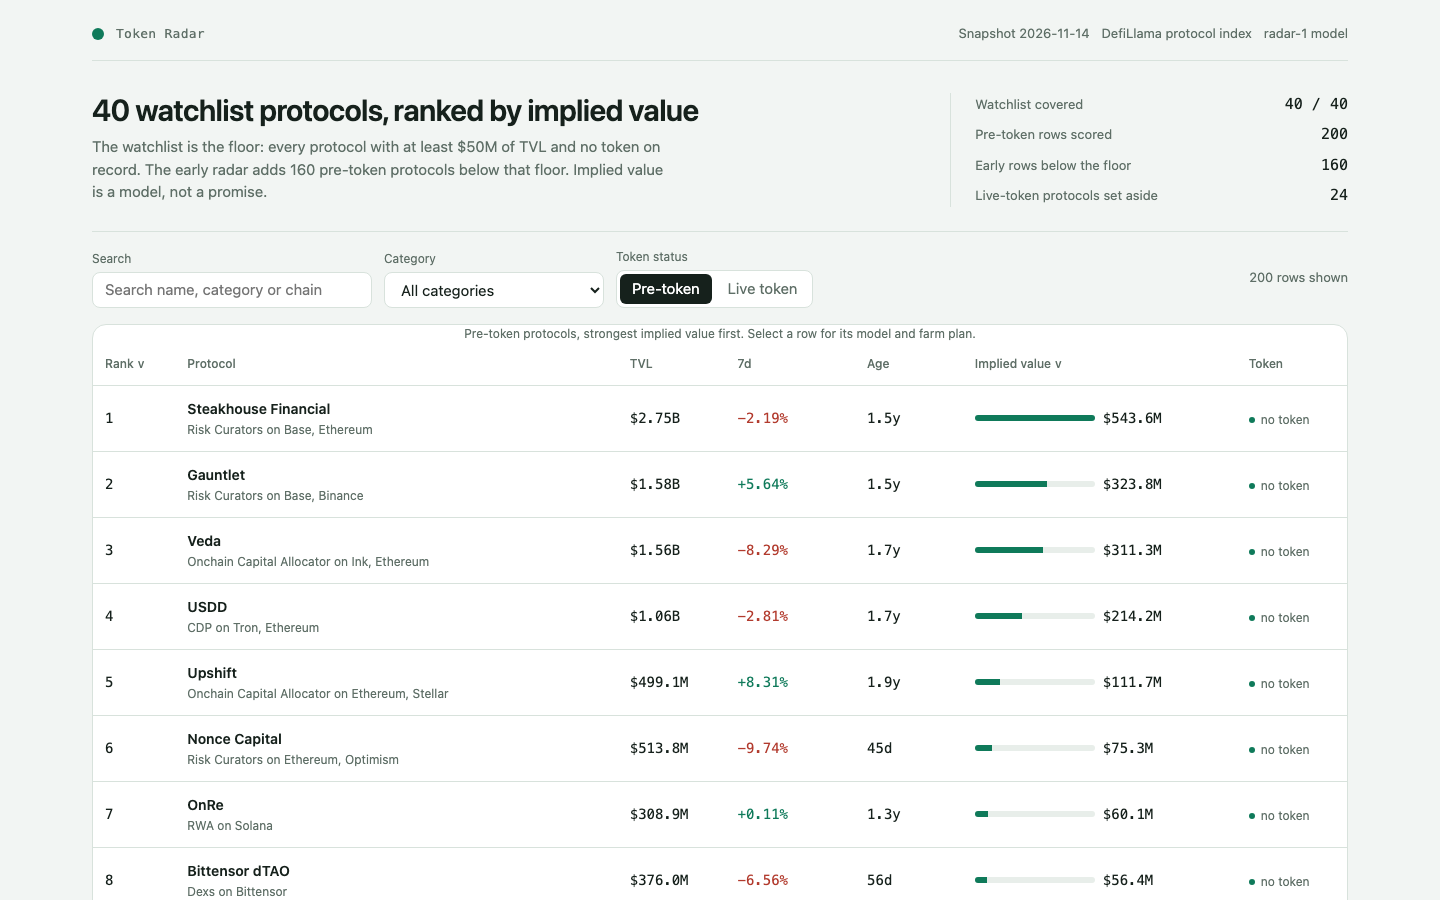
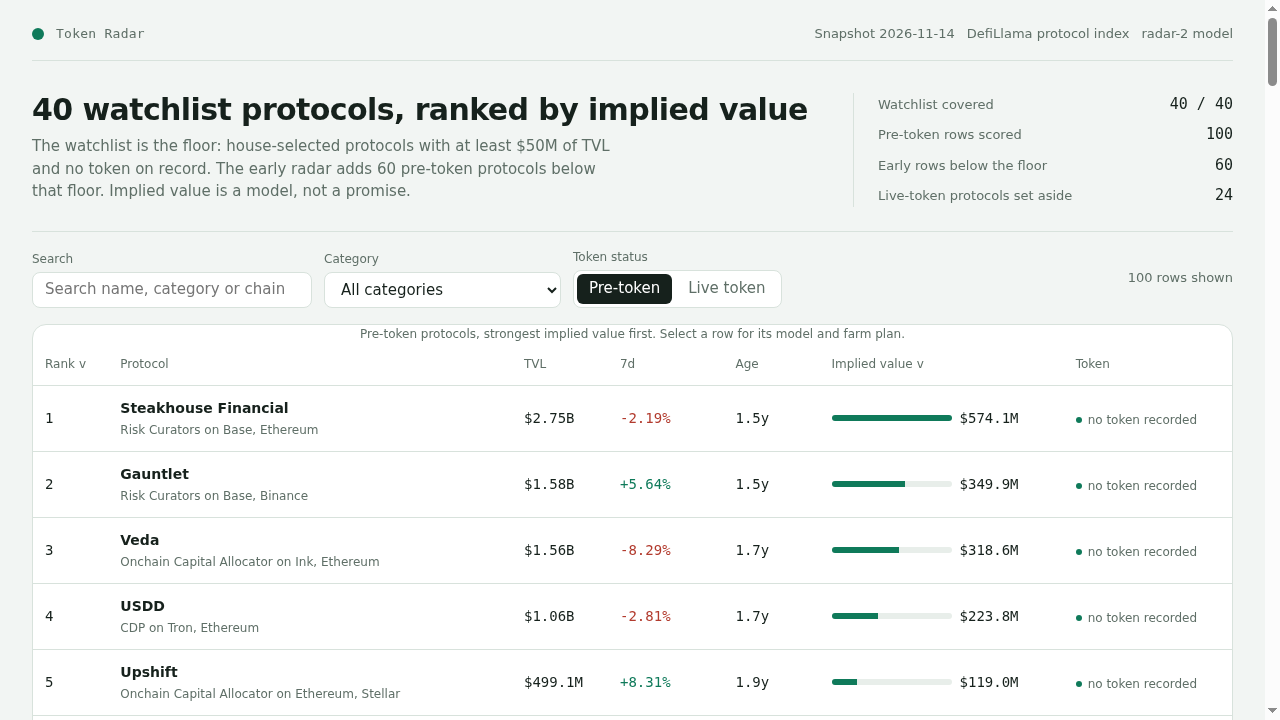
Improve launch radar signals and farm plans

diff --git a/dashboard/app.js b/dashboard/app.js
@@ -57,8 +57,7 @@
     return node;
   }
 
-  // The farm plan is the same derivation main.ts writes to board.json: category, chains, TVL and age
-  // decide the action, the capital, the hold and every cost and time. No name is special-cased.
+  // Legacy helper functions are unused: detail views use farm_steps from board.json.
   function chainOf(p) { return p.chains && p.chains.length > 0 ? p.chains[0] : 'its main chain'; }
   function capitalFor(p) {
     if (p.tvl_usd >= 5e9) return 250;
@@ -128,7 +127,7 @@
   function rows() {
     var q = state.q.trim().toLowerCase();
     return DATA.rows.filter(function (r) {
-      if (state.category !== 'all' && r.category !== state.category) return false;
+      if (state.category !== 'all' && (r.category || 'Other') !== state.category) return false;
       if (!q) return true;
       var hay = [r.name, r.slug, r.category, (r.chains || []).join(' ')].join(' ').toLowerCase();
       return hay.indexOf(q) >= 0;
@@ -164,7 +163,7 @@
     return el('section', { class: 'lede' },
       el('div', null,
         el('h1', { text: DATA.watchlist_size + ' watchlist protocols, ranked by implied value' }),
-        el('p', { text: 'The watchlist is the floor: every protocol with at least $' + Math.round(DATA.floor_usd / 1e6) + 'M of TVL and no token on record. The early radar adds ' + DATA.early_size + ' pre-token protocols below that floor. Implied value is a model, not a promise.' })
+        el('p', { text: 'The watchlist is the floor: house-selected protocols with at least $' + Math.round(DATA.floor_usd / 1e6) + 'M of TVL and no token on record. The early radar adds ' + DATA.early_size + ' pre-token protocols below that floor. Implied value is a model, not a promise.' })
       ),
       el('div', { class: 'facts' },
         el('div', { class: 'fact' }, el('span', { text: 'Watchlist covered' }), el('b', { text: DATA.watchlist_size + ' / ' + DATA.watchlist_size })),
@@ -178,7 +177,7 @@
   function controls() {
     var categories = Array.from(new Set(DATA.rows.map(function (r) { return r.category || 'Other'; }))).sort();
     var search = el('input', { type: 'search', id: 'q', placeholder: 'Search name, category or chain', value: state.q, 'aria-label': 'Search the board' });
-    search.addEventListener('input', function () { state.q = search.value; writeHash(); render(); });
+    search.addEventListener('input', function () { var pos = search.selectionStart; state.q = search.value; writeHash(); render(); var next = document.getElementById('q'); next.focus(); next.setSelectionRange(pos, pos); });
     var select = el('select', { id: 'category', 'aria-label': 'Filter by category' },
       el('option', { value: 'all', text: 'All categories' }),
       categories.map(function (c) { return el('option', { value: c, text: c, selected: c === state.category ? 'selected' : null }); })
@@ -212,7 +211,7 @@
         el('button', { class: 'button primary', type: 'button', text: 'Clear filters', onclick: function () { state.q = ''; state.category = 'all'; writeHash(); render(); } })
       ));
     }
-    var max = list[0].implied_value_usd || 1;
+    var max = Math.max.apply(null, list.map(function (r) { return r.implied_value_usd; })) || 1;
     var tbody = el('tbody');
     list.forEach(function (r) {
       var growth = r.change_7d === null ? 'n/a' : fmtPct(r.change_7d);
@@ -235,7 +234,7 @@
           el('div', { class: 'bar', 'aria-hidden': 'true' }, el('i', { style: 'width:' + Math.max(3, Math.round((r.implied_value_usd / max) * 100)) + '%' })),
           el('span', { class: 'num', text: fmtUsd(r.implied_value_usd) })
         )),
-        el('td', null, el('span', { class: 'status', text: 'no token' }))
+        el('td', null, el('span', { class: 'status', text: 'no token recorded' }))
       );
       tbody.appendChild(tr);
     });
@@ -285,11 +284,12 @@
     var m = DATA.model;
     return el('section', { class: 'panel model' },
       el('h2', { text: 'How implied value is computed' }),
+      el('p', { class: 'sub', text: 'Holder liquidity, trading pressure, concentration, unlocks, funding and audits are absent from this snapshot: unknown, not zero. Verify independently. No token or reward is guaranteed.' }),
       el('p', { class: 'sub', text: 'Every row is scored by one function of the snapshot figures. No protocol name is special-cased, and no row is hand-picked.' }),
       el('div', { class: 'formula' },
         'implied = round( tvl_usd x ' + m.base_multiple + ' x (1 + clamp(change_7d, ' + m.growth_floor + ', ' + m.growth_cap + ') / 100 x ' + m.growth_weight + ') x (' + m.maturity_floor + ' + min(age_days, ' + m.maturity_days + ') / ' + m.maturity_days + ' x ' + m.maturity_range + ') )'
       ),
-      el('p', { class: 'sub', text: 'TVL and seven-day growth come from the snapshot. Age is the time since the protocol was first listed, the best record of how long it has run with no token; an unlisted age uses ' + m.unknown_age_days + ' days. The early radar is every pre-token protocol below the watchlist floor, by TVL, and the live-token protocols are set aside with their market caps shown.' })
+      el('p', { class: 'sub', text: 'TVL and seven-day growth come from the snapshot. Age is time since tracking began, not proof of token status; missing age uses ' + m.unknown_age_days + ' days. The early radar selects 60 eligible protocols below the floor by implied value; a sample with recorded tokens is set aside.' })
     );
   }
 
@@ -302,7 +302,7 @@
     state.selected = slug;
     writeHash();
     dialog.textContent = '';
-    var steps = farmSteps(row);
+    var steps = row.farm_steps;
     dialog.appendChild(el('div', { class: 'detail-head' },
       el('div', null,
         el('span', { class: 'brand-name', text: 'Rank ' + row.rank + ' of ' + DATA.board_size }),
@@ -316,7 +316,7 @@
       el('div', { class: 'equation' },
         el('div', null, el('span', { text: 'TVL' }), el('b', { class: 'num', text: fmtUsd(row.tvl_usd) })),
         el('div', null, el('span', { text: 'Seven-day growth' }), el('b', { class: 'num', text: fmtPct(row.change_7d) })),
-        el('div', null, el('span', { text: 'Age with no token' }), el('b', { class: 'num', text: fmtAge(row.age_days) })),
+        el('div', null, el('span', { text: 'Days since tracking began' }), el('b', { class: 'num', text: fmtAge(row.age_days) })),
         el('div', null, el('span', { text: 'Growth multiplier' }), el('b', { class: 'num', text: String(row.growth_multiplier) })),
         el('div', null, el('span', { text: 'Maturity multiplier' }), el('b', { class: 'num', text: String(row.maturity_multiplier) })),
         el('div', null, el('span', { text: 'Implied value' }), el('b', { class: 'num', text: fmtUsd(row.implied_value_usd) }))

diff --git a/lib/model.ts b/lib/model.ts
@@ -9,9 +9,9 @@
 // Implied value follows only from the snapshot's own figures:
 //
 //   base       = tvl_usd x BASE_MULTIPLE
-//   growth     = clamp(change_7d, -60, 120) per cent
+//   growth     = clamp(change_7d, -60, 80) per cent
 //   growthMult = 1 + (growth / 100) x GROWTH_WEIGHT
-//   maturity   = 0.6 + min(age_days, 1095) / 1095 x 0.4   (age_days unknown: 365)
+//   maturity   = 0.7 + min(age_days, 1095) / 1095 x 0.3   (age_days unknown: 365)
 //   implied    = max(1, round(base x growthMult x maturity))
 //
 // The constants are the house model's, stated in the dashboard and changeable in the model sandbox. No
@@ -54,20 +54,20 @@ export interface ModelConstants {
 
 export const MODEL: ModelConstants = {
   base_multiple: 0.25,
-  growth_weight: 0.5,
+  growth_weight: 0.8,
   growth_floor: -60,
-  growth_cap: 120,
-  maturity_floor: 0.6,
-  maturity_range: 0.4,
+  growth_cap: 80,
+  maturity_floor: 0.7,
+  maturity_range: 0.3,
   maturity_days: 1095,
   unknown_age_days: 365,
 };
 
 /** The model's version label: the dashboard names it and the rules quote it. */
-export const MODEL_VERSION = 'radar-1';
+export const MODEL_VERSION = 'radar-2';
 
-/** How many pre-token protocols below the watchlist floor the early radar carries, by TVL. */
-export const EARLY_ROWS = 160;
+/** How many pre-token protocols below the watchlist floor the early radar carries, by implied value. */
+export const EARLY_ROWS = 60;
 
 /** How many live-token protocols the Live token view carries, by market cap. */
 export const LIVE_ROWS = 24;
@@ -120,6 +120,7 @@ export interface RadarRow {
   implied_value_usd: number;
   growth_multiplier: number;
   maturity_multiplier: number;
+  farm_steps: string[];
 }
 
 /** A live-token protocol: it already trades, so the board shows the market's own value, not a model's. */
@@ -180,8 +181,9 @@ export function impliedValue(protocol: SnapshotProtocol, asOf: string, model: Mo
   const growthMult = 1 + (growthPct / 100) * model.growth_weight;
   const ageForModel = age ?? model.unknown_age_days;
   const maturityMult = model.maturity_floor + (Math.min(Math.max(ageForModel, 0), model.maturity_days) / model.maturity_days) * model.maturity_range;
-  const base = protocol.tvl_usd * model.base_multiple;
-  const implied = Math.max(1, Math.round(base * growthMult * maturityMult));
+  // ponytail: snapshot has no holders, flows, unlocks, funding or audits; add them only with sealed data.
+  const base = Math.max(0, finite(protocol.tvl_usd, 0)) * model.base_multiple;
+  const implied = Math.min(100_000_000_000_000, Math.max(1, Math.round(finite(base * growthMult * maturityMult, 1))));
   return { implied, growthPct, growthMult, maturityMult, age };
 }
 
@@ -221,11 +223,11 @@ export function buildBoard(snapshot: Snapshot, model: ModelConstants = MODEL): B
     const p = index.get(slug);
     if (p !== undefined) chosen.set(slug, p);
   }
-  // The early radar: pre-token protocols below the watchlist floor, by TVL, capped. Never a replacement
+  // The early radar: pre-token protocols below the watchlist floor, by implied value, capped. Never a replacement
   // for a watchlist row: a chosen protocol stays chosen.
   const early = snapshot.protocols
     .filter((p) => !chosen.has(p.slug) && isRankable(p) && p.tvl_usd < snapshot.floor_usd)
-    .sort((a, b) => b.tvl_usd - a.tvl_usd || (a.slug < b.slug ? -1 : a.slug > b.slug ? 1 : 0))
+    .sort((a, b) => impliedValue(b, snapshot.as_of, model).implied - impliedValue(a, snapshot.as_of, model).implied || (a.slug < b.slug ? -1 : a.slug > b.slug ? 1 : 0))
     .slice(0, EARLY_ROWS);
   for (const p of early) chosen.set(p.slug, p);
 
@@ -317,37 +319,11 @@ export function farmSteps(p: SnapshotProtocol, age: number | null): FarmStep[] {
   const capital = capitalFor(p);
   const hold = holdDaysFor(age);
   const action = actionFor(p, capital, chain);
+  const threshold = Math.round(Math.max(0, p.tvl_usd) * 0.8);
   return [
-    {
-      text: `Use a fresh wallet that holds only the funds you plan to farm, and keep its seed phrase offline.`,
-      cost: 'under $3 of gas for the first transaction',
-      time: '5 minutes',
-    },
-    {
-      text: action,
-      cost: `$${capital} of capital and about $${capital >= 150 ? 8 : 4} of gas`,
-      time: '15 minutes to set up',
-    },
-    {
-      text: `Make one qualifying action each week, such as a deposit, a borrow, a swap or a vote.`,
-      cost: 'about $2 of gas a week',
-      time: '10 minutes a week',
-    },
-    {
-      text: `Hold the position for at least ${hold} days so the activity is counted in more than one snapshot.`,
-      cost: `the $${capital} stays in the position`,
-      time: `${hold} days`,
-    },
-    {
-      text: `Before you withdraw, open the protocol's own points or rewards page and claim only from the link it publishes.`,
-      cost: 'no fee to check, and never pay to claim',
-      time: '10 minutes',
-    },
-    {
-      text: `Write the wallet, the dates and every transaction in a farm log so you can repeat the position or unwind it.`,
-      cost: 'nothing but the log',
-      time: '5 minutes',
-    },
+    { text: action, cost: `$${capital} at risk plus gas`, time: '15 minutes' },
+    { text: `Watch TVL $${p.tvl_usd} (7d ${p.change_7d === null ? 'unknown' : `${p.change_7d}%`}), audits and token news; eligibility unknown.`, cost: 'none to review', time: `weekly for ${hold} days` },
+    { text: `Stop deposits and consider exit below $${threshold} TVL, after exploit or depeg. Check exit liquidity.`, cost: 'gas and potential loss', time: 'immediately' },
   ];
 }
 
@@ -384,6 +360,7 @@ export function radarRow(row: BoardRow): RadarRow {
     implied_value_usd: row.implied_value_usd,
     growth_multiplier: row.model.growth_multiplier,
     maturity_multiplier: row.model.maturity_multiplier,
+    farm_steps: row.farm_steps,
   };
 }
 

diff --git a/lib/model.test.ts b/lib/model.test.ts
@@ -1,0 +1,16 @@
+import assert from 'node:assert/strict';
+import { readFileSync } from 'node:fs';
+import { buildRadar, boardIssue, impliedValue, MODEL, parseSnapshot } from './model.ts';
+
+const snapshot = parseSnapshot(readFileSync('snapshot.json', 'utf8'));
+const first = buildRadar(snapshot);
+assert.equal(boardIssue(first.board, snapshot), null);
+assert.equal(first.board.length, 100);
+assert.equal(new Set(first.board.map((row) => row.slug)).size, 100);
+assert.equal(JSON.stringify(first), JSON.stringify(buildRadar(snapshot)));
+assert.ok(first.board.every((row) => row.farm_steps.length === 3 && row.farm_steps.every((step) => step.length >= 20 && step.length <= 600)));
+const p = snapshot.protocols[0]!;
+assert.equal(impliedValue({ ...p, tvl_usd: 0, change_7d: null, listed_at: null }, snapshot.as_of, MODEL).implied, 1);
+assert.ok(Number.isFinite(impliedValue({ ...p, tvl_usd: Number.MAX_VALUE, change_7d: 1e100 }, snapshot.as_of, MODEL).implied));
+assert.ok(impliedValue({ ...p, change_7d: 80 }, snapshot.as_of, MODEL).implied > impliedValue({ ...p, change_7d: -60 }, snapshot.as_of, MODEL).implied);
+console.log('model checks passed');

diff --git a/main.ts b/main.ts
@@ -51,7 +51,8 @@ if (issue !== null) {
 }
 
 mkdirSync(out, { recursive: true });
-writeFileSync(join(out, 'board.json'), `${JSON.stringify({ rows: board })}\n`);
+// Keep the ranked contract compact; data.js retains the dashboard's richer fields.
+writeFileSync(join(out, 'board.json'), `${JSON.stringify({ rows: board.map(({ rank, slug, name, implied_value_usd, farm_steps }) => ({ rank, slug, name, implied_value_usd, farm_steps })) })}\n`);
 writeFileSync(join(out, 'data.js'), dataScript(radar));
 
 /** Copy one directory's regular files into `to`, skipping names that start with a dot. */

diff --git a/STRATEGY.md b/STRATEGY.md
@@ -1,0 +1,13 @@
+# Strategy
+
+The sealed snapshot has 758 protocols and 40 watchlist entries. All 40 are included; 60 additional eligible records below the floor are selected by implied value. Recorded tokens are displayed separately, not ranked with candidates. A missing token record is not proof that no token exists. Versioned pools and CEXes are excluded from early candidates; parent relationships are not available.
+
+## Signal and weights
+
+Implied value = round(TVL × 0.25 × growth multiplier × maturity multiplier), bounded to $1–$100 trillion. Growth multiplier = 1 + 0.8 × clamp(7-day TVL change, -60%, +80%); missing change is neutral. Maturity multiplier = 0.7 + 0.3 × min(days since tracking began, 1,095) / 1,095; unknown age uses 365 days. These heuristic weights favor current capital and positive trajectory while capping short-term spikes, and discount young records without treating missing age as zero. Tracking age is not protocol age or time since funding. Value is neither a market price nor a prediction.
+
+Liquidity per holder, buy/sell pressure, holder concentration, 30-day unlocks, funding and audits are not present in the snapshot. They are unknown, not zero; do not invent them. A single 7-day observation cannot establish a multi-period trend.
+
+## Farm plan and invalidation
+
+Plans use category and chain for the proposed action, TVL tiers for $50–$250 illustrative exposure, and tracking age for a 30–60 day review horizon. They show snapshot TVL and growth and a row-specific 20% TVL decline threshold. Stop new deposits and consider exit after that threshold, an exploit or depeg; verify exit liquidity and fees first. Check official app, contracts, audits, eligibility and current data independently. Gas varies; loss of principal, smart contract failure and absent rewards are possible. No eligibility or return is guaranteed.

diff --git a/README.md b/README.md
@@ -1,0 +1,13 @@
+# Token Radar
+
+[![make.fun competition](https://make.fun/badge/token-radar-01.svg)](https://make.fun/c/token-radar-01)
+[![Rank](https://make.fun/badge/token-radar-01/penawarlawas/token-radar-01/rank.svg)](https://make.fun/c/token-radar-01)
+[![Reward](https://make.fun/badge/token-radar-01/penawarlawas/token-radar-01/reward.svg)](https://make.fun/c/token-radar-01)
+
+Offline launch radar for the sealed DefiLlama snapshot. Rankings are heuristic estimates, not prices or assurances of an airdrop. See [STRATEGY.md](STRATEGY.md) for assumptions and risks.
+
+Run with Node 22.18 or later:
+
+    mkdir -p out && MAKEFUN_OUTPUT_DIR=out node main.ts --input snapshot.json
+
+Open `out/dashboard/index.html` locally. No runtime network or dependencies.
